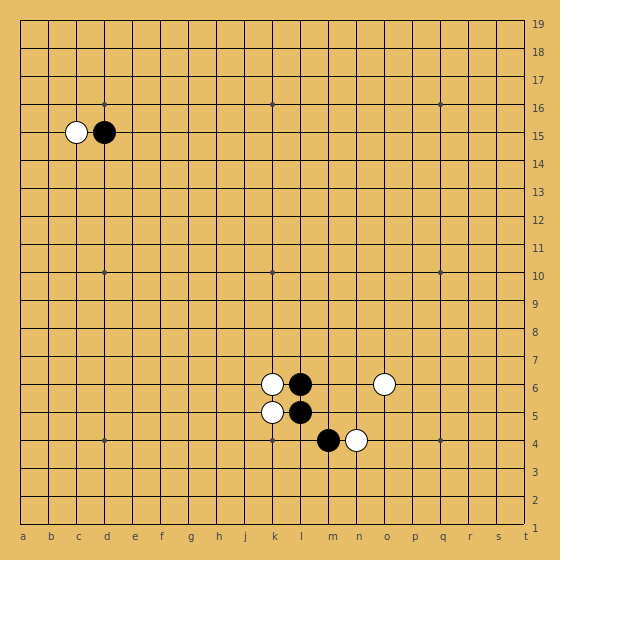
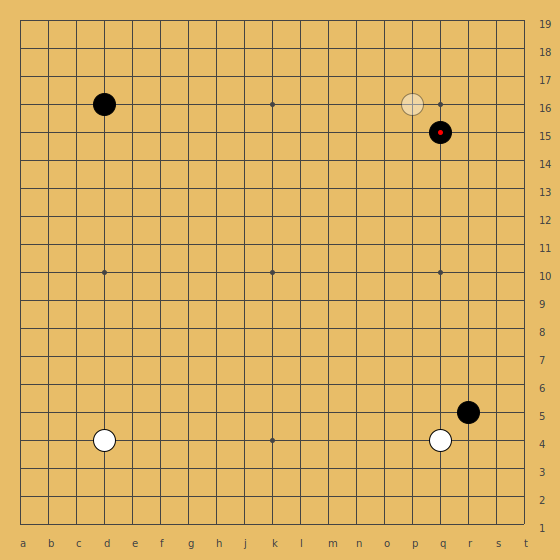
new screenshot to show live next move

diff --git a/resources/public/index.html b/resources/public/index.html
@@ -7,28 +7,27 @@
     <script type="text/javascript" src="goboard.js"></script>
     <script type="text/javascript">
       var stones = [
-      0, 0, 2, 0, 0, 0, 0, 0, 0, 0, 0, 0, 0, 0, 0, 0, 0, 0, 0,
       0, 0, 0, 0, 0, 0, 0, 0, 0, 0, 0, 0, 0, 0, 0, 0, 0, 0, 0,
-      0, 1, 0, 0, 0, 0, 0, 0, 0, 0, 0, 0, 0, 0, 0, 0, 0, 0, 1,
-      0, 0, 0, 0, 0, 0, 0, 0, 0, 0, 0, 0, 0, 0, 0, 0, 0, 0, 1,
-      0, 0, 0, 0, 0, 0, 0, 0, 0, 0, 0, 0, 0, 0, 0, 0, 0, 0, 1,
-      0, 0, 0, 0, 0, 0, 0, 0, 0, 0, 0, 0, 0, 0, 0, 0, 0, 0, 1,
-      0, 0, 0, 0, 0, 0, 0, 0, 0, 0, 0, 0, 0, 0, 0, 0, 0, 0, 1,
-      0, 0, 0, 0, 0, 0, 0, 0, 0, 0, 0, 0, 0, 0, 0, 0, 0, 0, 1,
-      0, 0, 0, 0, 0, 0, 0, 0, 0, 0, 0, 0, 0, 0, 0, 0, 0, 0, 1,
-      0, 0, 0, 0, 0, 0, 0, 0, 0, 0, 0, 0, 0, 0, 0, 0, 0, 0, 1,
-      0, 0, 0, 0, 0, 0, 0, 0, 0, 0, 0, 0, 0, 0, 0, 0, 0, 0, 1,
-      0, 0, 0, 0, 0, 0, 0, 0, 0, 0, 0, 0, 0, 0, 0, 0, 0, 0, 1,
-      0, 0, 0, 0, 0, 0, 0, 0, 0, 0, 0, 0, 0, 0, 0, 0, 0, 0, 1,
-      0, 0, 0, 0, 0, 0, 0, 0, 0, 0, 0, 0, 0, 0, 0, 0, 0, 0, 1,
-      0, 0, 0, 0, 0, 0, 0, 0, 0, 0, 0, 0, 0, 0, 0, 0, 0, 0, 1,
-      0, 0, 0, 0, 0, 0, 0, 0, 0, 0, 0, 0, 0, 0, 0, 0, 0, 0, 1,
-      0, 0, 0, 0, 0, 0, 0, 0, 0, 0, 0, 0, 0, 0, 0, 0, 0, 0, 1,
-      0, 0, 0, 0, 0, 0, 0, 0, 0, 0, 0, 0, 0, 0, 0, 0, 0, 0, 1,
-      0, 0, 0, 0, 0, 0, 0, 0, 0, 0, 0, 0, 0, 0, 0, 0, 0, 0, 1];
+      0, 0, 0, 0, 0, 0, 0, 0, 0, 0, 0, 0, 0, 0, 0, 0, 0, 0, 0,
+      0, 0, 0, 0, 0, 0, 0, 0, 0, 0, 0, 0, 0, 0, 0, 0, 0, 0, 0,
+      0, 0, 0, 1, 0, 0, 0, 0, 0, 0, 0, 0, 0, 0, 0, 0, 0, 0, 0,
+      0, 0, 0, 0, 0, 0, 0, 0, 0, 0, 0, 0, 0, 0, 0, 1, 0, 0, 0,
+      0, 0, 0, 0, 0, 0, 0, 0, 0, 0, 0, 0, 0, 0, 0, 0, 0, 0, 0,
+      0, 0, 0, 0, 0, 0, 0, 0, 0, 0, 0, 0, 0, 0, 0, 0, 0, 0, 0,
+      0, 0, 0, 0, 0, 0, 0, 0, 0, 0, 0, 0, 0, 0, 0, 0, 0, 0, 0,
+      0, 0, 0, 0, 0, 0, 0, 0, 0, 0, 0, 0, 0, 0, 0, 0, 0, 0, 0,
+      0, 0, 0, 0, 0, 0, 0, 0, 0, 0, 0, 0, 0, 0, 0, 0, 0, 0, 0,
+      0, 0, 0, 0, 0, 0, 0, 0, 0, 0, 0, 0, 0, 0, 0, 0, 0, 0, 0,
+      0, 0, 0, 0, 0, 0, 0, 0, 0, 0, 0, 0, 0, 0, 0, 0, 0, 0, 0,
+      0, 0, 0, 0, 0, 0, 0, 0, 0, 0, 0, 0, 0, 0, 0, 0, 0, 0, 0,
+      0, 0, 0, 0, 0, 0, 0, 0, 0, 0, 0, 0, 0, 0, 0, 0, 0, 0, 0,
+      0, 0, 0, 0, 0, 0, 0, 0, 0, 0, 0, 0, 0, 0, 0, 0, 1, 0, 0,
+      0, 0, 0, 2, 0, 0, 0, 0, 0, 0, 0, 0, 0, 0, 0, 2, 0, 0, 0,
+      0, 0, 0, 0, 0, 0, 0, 0, 0, 0, 0, 0, 0, 0, 0, 0, 0, 0, 0,
+      0, 0, 0, 0, 0, 0, 0, 0, 0, 0, 0, 0, 0, 0, 0, 0, 0, 0, 0,
+      0, 0, 0, 0, 0, 0, 0, 0, 0, 0, 0, 0, 0, 0, 0, 0, 0, 0, 0];
 
-      goboard.goboard.draw("goBoard", stones, 2, 18, 17);
+      goboard.goboard.draw("goBoard", stones, 2, 15, 4);
     </script>
-
   </body>
 </html>
